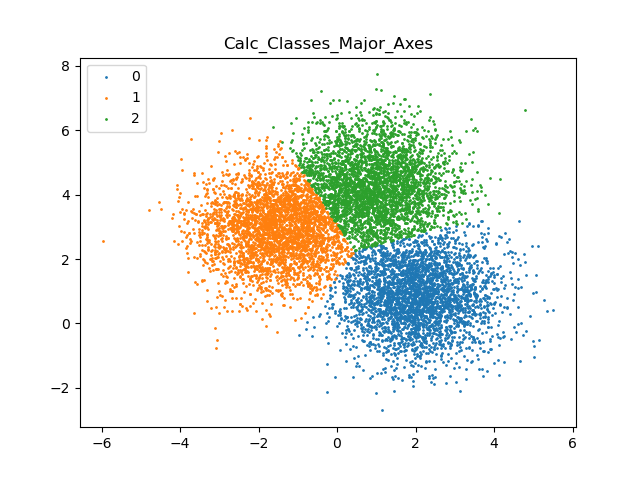
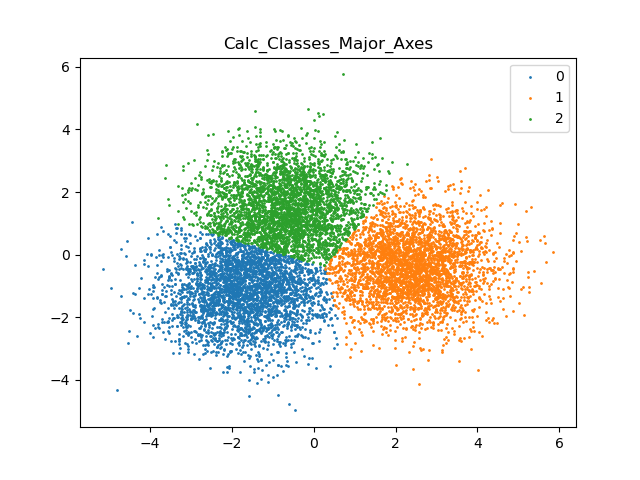
saving initial centers

diff --git a/analysis.py b/analysis.py
@@ -22,20 +22,34 @@ if __name__ == "__main__":
     path = "X.csv"
     true_labels_path = 'y.csv'
     out_path = "plots"
+
     X = np.genfromtxt(path, delimiter=',')
     y_true = np.genfromtxt(true_labels_path, delimiter=',')
 
+    # 2d debugging data
     X, y_true = datasets.make_blobs(10000, random_state=0)
+    centers = KMeanspp(3).center_init(X)
+    k = 3
+
 
     # calc_labels = KMeans(k=3).fit(X).transform(X)
-    calc_labels = KMeanspp(k=3).fit(X).transform(X)
-    print(calc_labels.shape)
-    print(calc_labels[0:50])
+    # calc_labels = KMeanspp(k=3).fit(X).transform(X)
+    kmeans = KMeanspp(k=k)
+    # kmeans = KMeans(k=k)
+    calc_labels = kmeans.fit(X).transform(X)
     print(np.unique(calc_labels))
 
-    # pca = PCA(n_components=20)
-    # X = pca.fit_transform(X)
-    # X = X[:, 0:2]
+    pca = PCA(n_components=2)
+    pca.fit(X)
+    X = pca.transform(X)
+    init_centers = kmeans.init_centers.reshape(k, -1)
+    init_centers = pca.transform(init_centers)
+
+    # Plotting Init points
+    plt.scatter(X[:,0], X[:,1], s=1)
+    plt.scatter(init_centers[:, 0], init_centers[:, 1], alpha=0.4)
+    plt.show()
+    plt.close()
 
     plots(X, y_true, "Actual_Classes_Major_Axes", out_path)
     plots(X, calc_labels, "Calc_Classes_Major_Axes", out_path)

diff --git a/p1_code.py b/p1_code.py
@@ -24,6 +24,7 @@ class KMeans:
     def __init__(self, k):
         self.k = k
         self.centers = None
+        self.init_centers = None
 
     @staticmethod
     def sse(center, data):
@@ -57,6 +58,7 @@ class KMeans:
 
         # init centers, initial calculations
         centers = self.center_init(X)
+        self.init_centers = centers
         thresh = 1e-2
 
         clust_labels = self.get_cluster_labels(centers, X)
